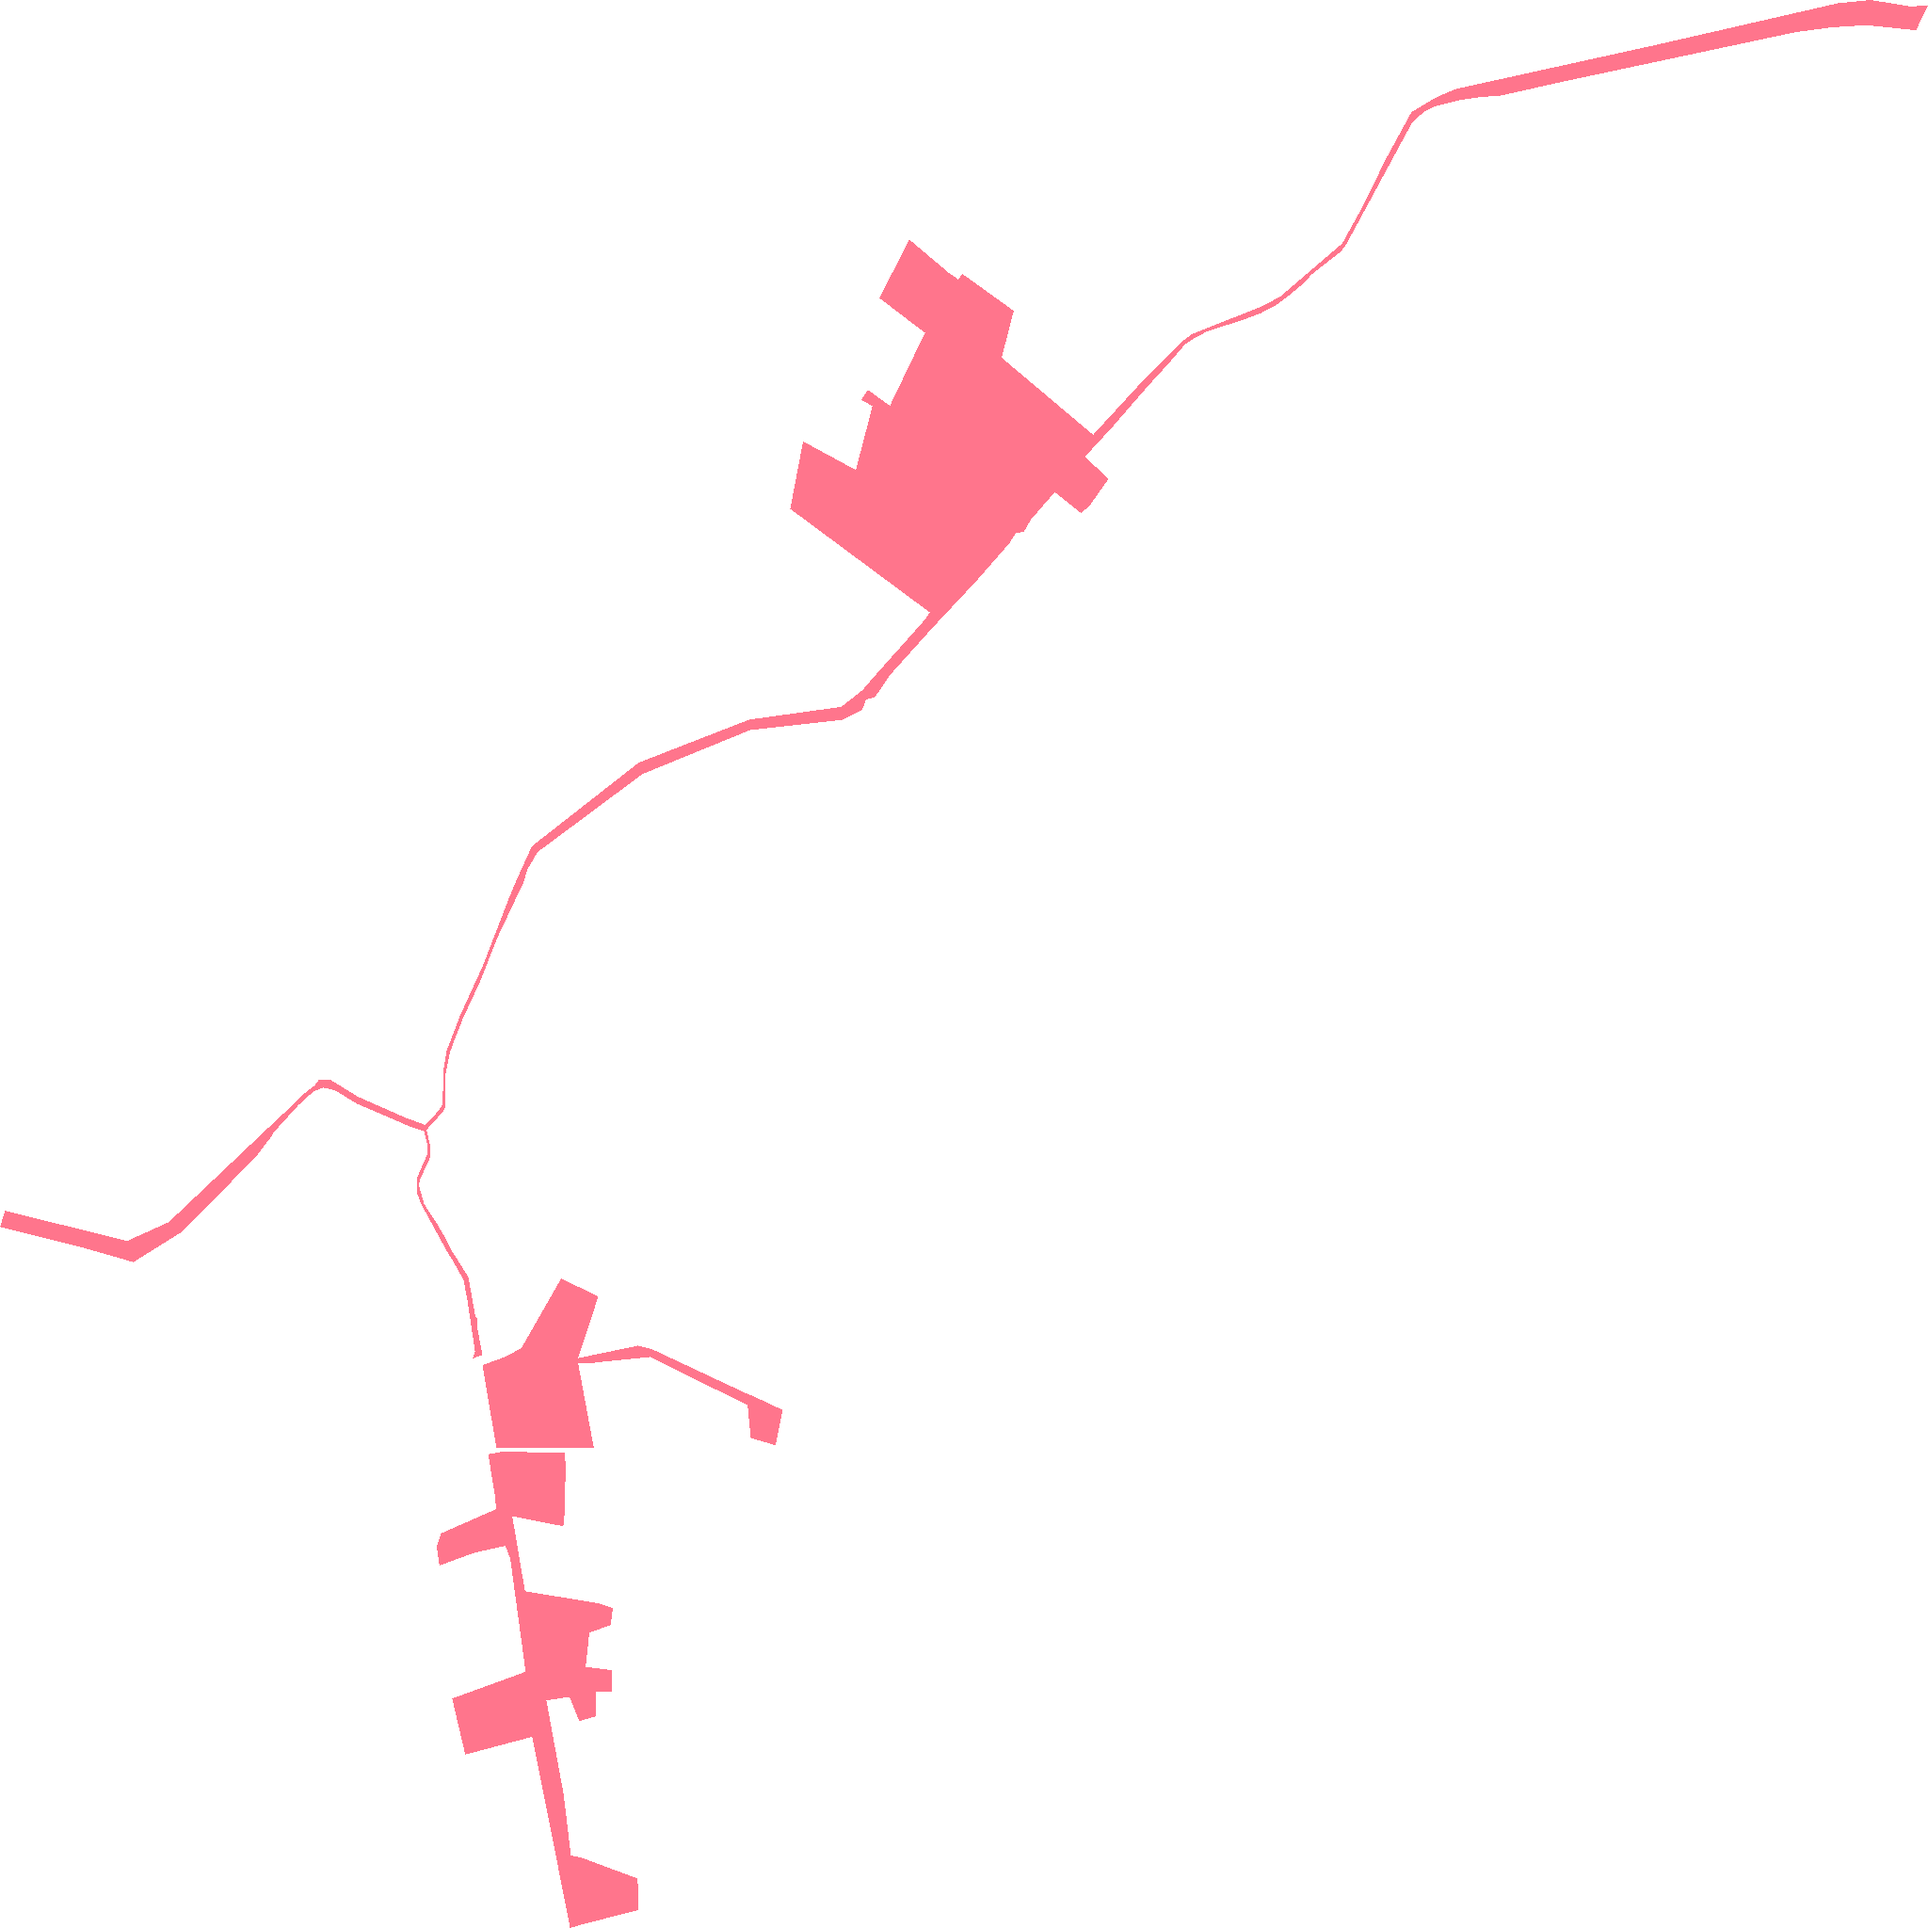
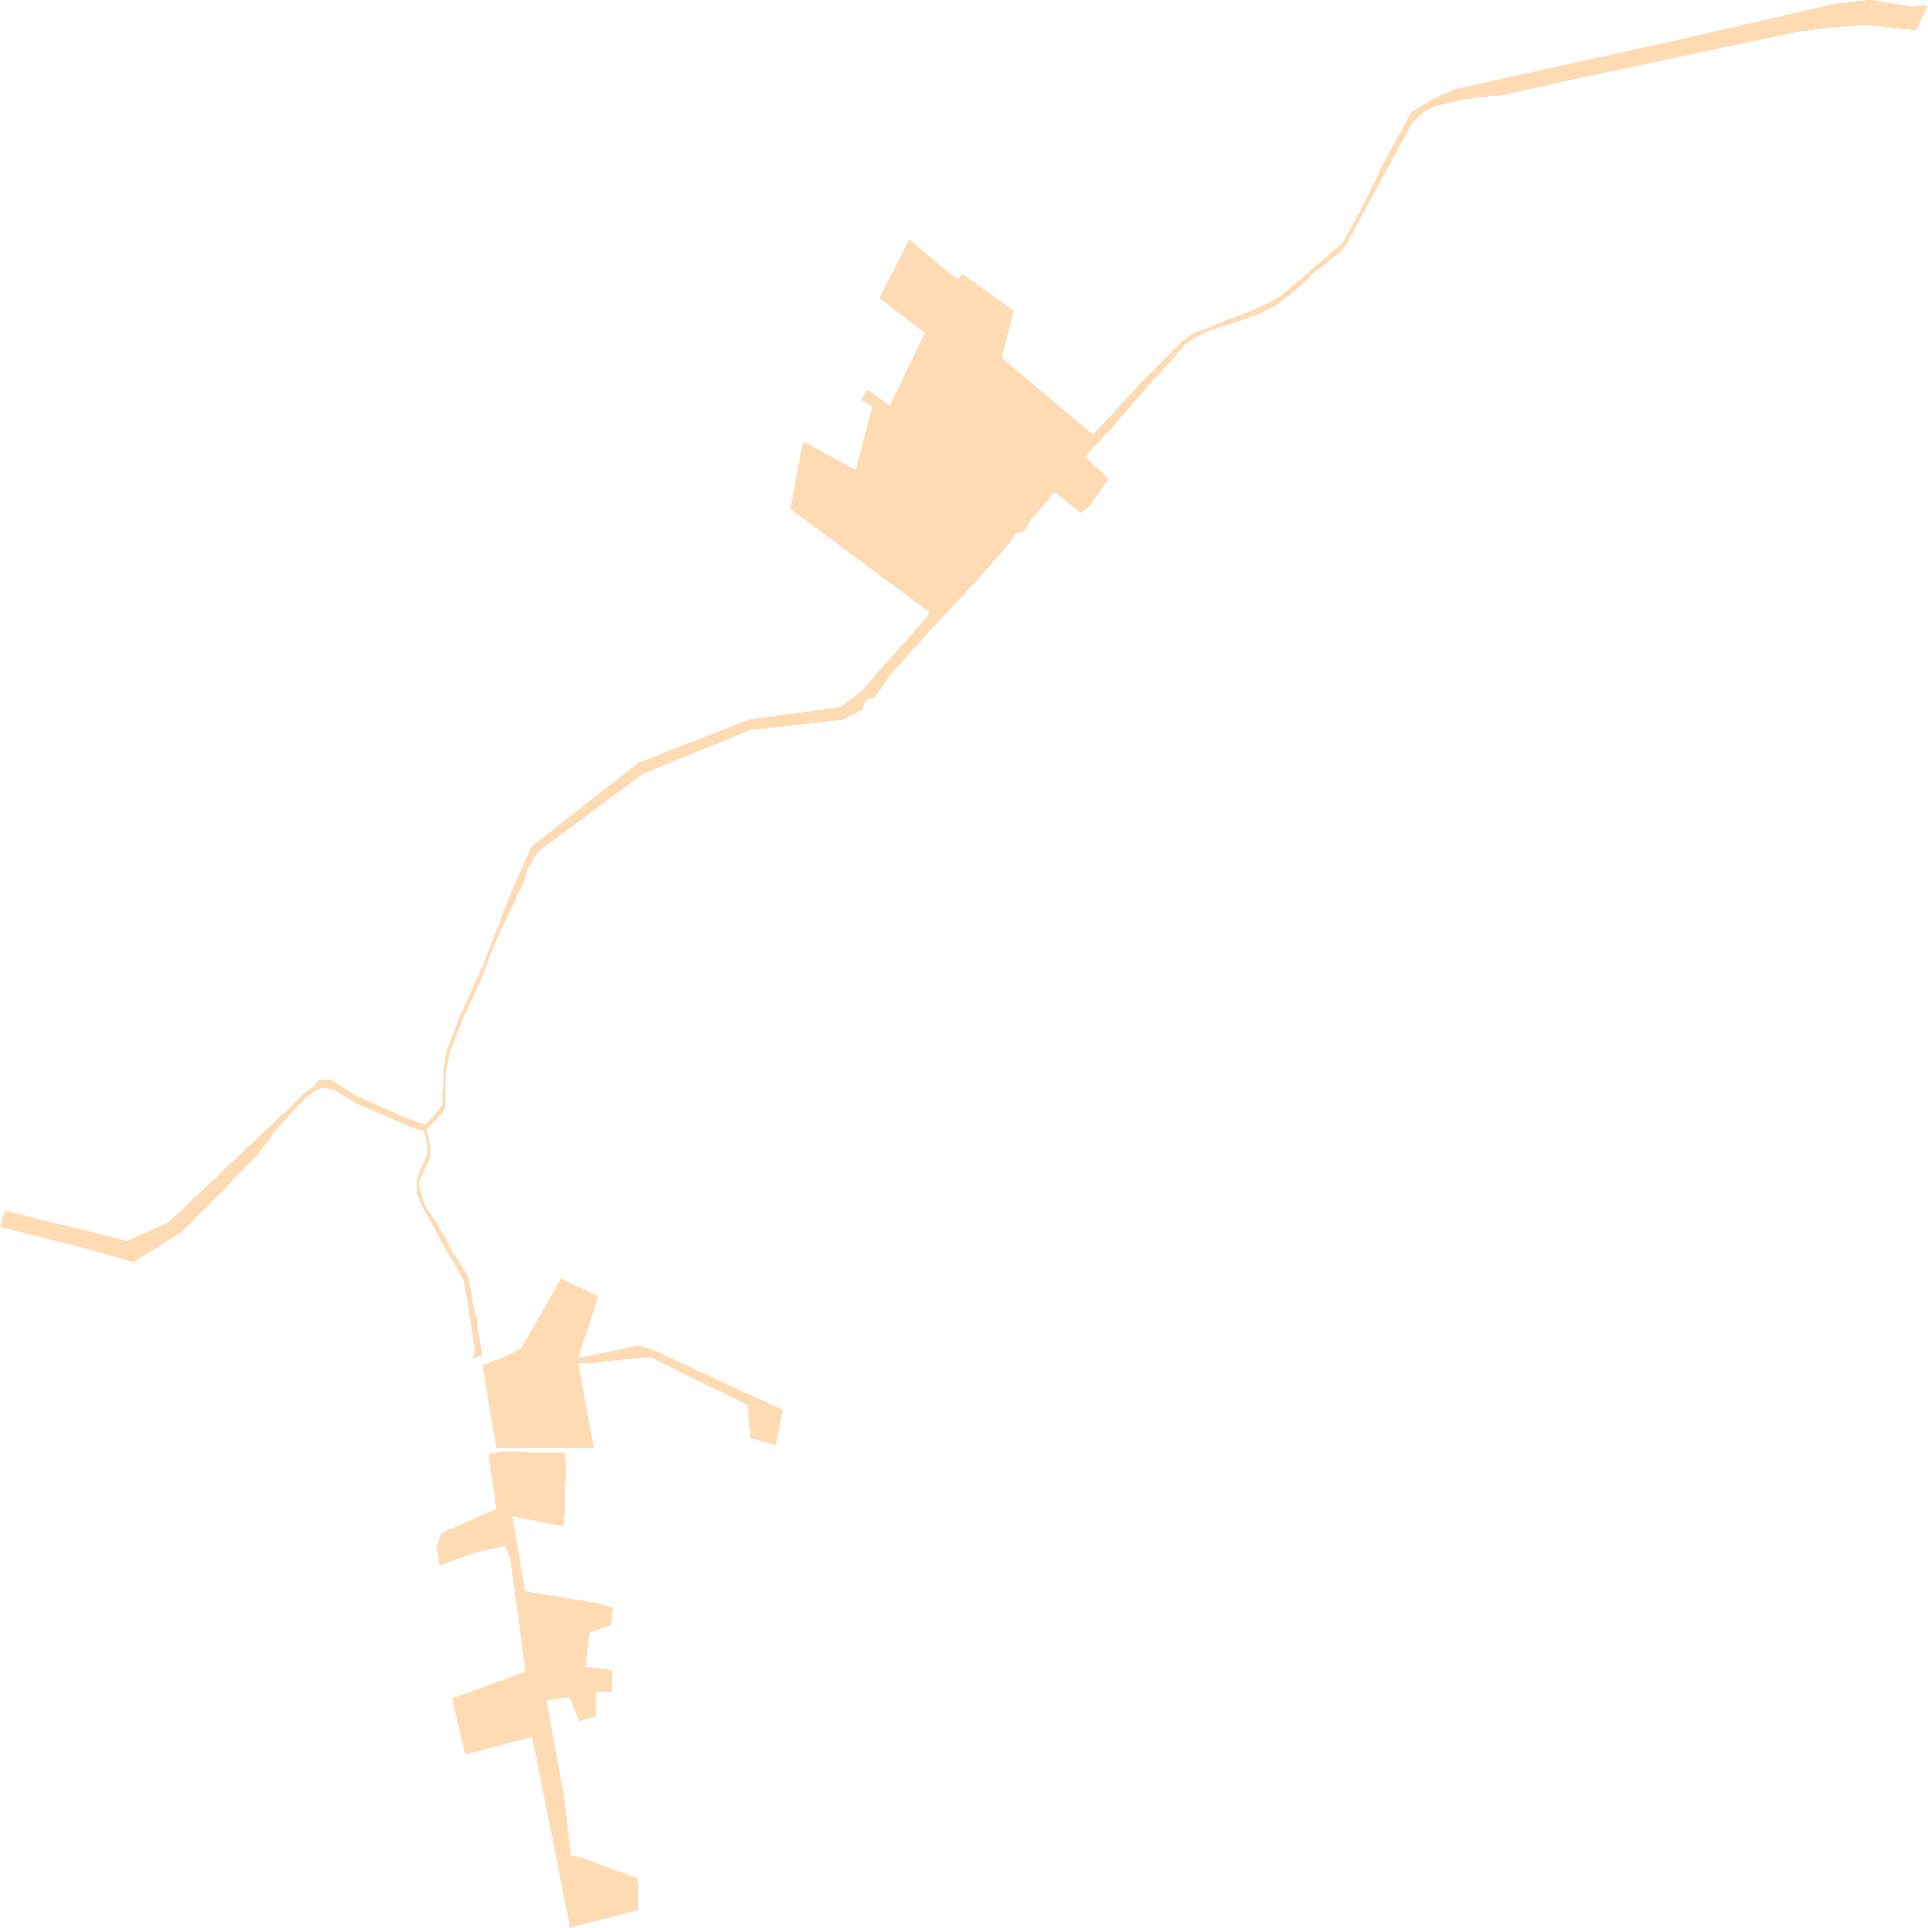
Karte sp_613

diff --git a/sp_613.html b/sp_613.html
@@ -60,7 +60,7 @@
         }
         .custom-control2 {
             position: absolute;
-            bottom: -320px;
+            top: 110px;
             left: 0px;
             background: white;
             padding: 5px;
@@ -77,24 +77,6 @@
         .custom-control:hover, .custom-control2:hover {
             background-color: #f0f0f0 !important;
         }
-        .leaflet-control-geocoder-icon {
-            background-color: white !important;
-            color: grey !important;
-            border: none !important;
-            width: 20px;
-            height: 20px;
-            display: flex;
-            justify-content: center;
-            align-items: center;
-            font-size: 15px;
-            font-family: 'Montserrat', sans-serif;
-            box-shadow: 0 1px 3px rgba(0, 0, 0, 0.3);
-            border-radius: 2px;
-            cursor: pointer;
-        }
-        .leaflet-control-geocoder-icon:hover {
-            background-color: #f0f0f0 !important;
-        }
         .custom-marker {
             width: 15px;
             height: 15px;
@@ -104,8 +86,8 @@
         }
         #legend {
             position: absolute;
-            bottom: 80px;
-            left: 55px;
+            top: 160px;
+            left: 10px;
             display: none;
             z-index: 1000;
             background: white;
@@ -128,8 +110,9 @@
 <body>
     <div id="map"></div>
     <div id="legend">
-        <div><span style="display:inline-block; width:20px; height:10px; background:#FF7F00; margin-right:5px;"></span>Ausbauphase 1: Ausbau bei ausreichender Nachfrage</div>
+        <div><span style="display:inline-block; width:20px; height:10px; background:#FF7F00; margin-right:5px;"></span>Ausbauphase 1: Glasfasernetz vorhanden oder geplant</div>
         <div><span style="display:inline-block;width:20px; height:10px; background:#00143C; margin-right:5px;"></span>Ausbauphase 2: Interessenbekundung möglich</div>
+        <div><span style="display:inline-block;width:20px; height:10px; background:#FFC17D; margin-right:5px;"></span>Ausbauphase 3: Gefördertes Ausbaugebiet </div>
     </div>
     <script>
     const bounds = [[50.494320346, 8.078483566], [50.526240973, 8.137024529]];
@@ -166,20 +149,6 @@
         });
         map.addControl(new legendControl());
         const markerLayerGroup = L.layerGroup().addTo(map);
-        const geocoder = L.Control.geocoder({
-            defaultMarkGeocode: false
-        })
-            .on('markgeocode', function (e) {
-                markerLayerGroup.clearLayers();
-                const latlng = e.geocode.center;
-                const customMarker = L.divIcon({
-                    className: 'custom-marker'
-                });
-                const marker = L.marker(latlng, { icon: customMarker });
-                markerLayerGroup.addLayer(marker);
-                map.fitBounds(bounds);
-            })
-            .addTo(map);
     </script>
 </body>
 </html>
